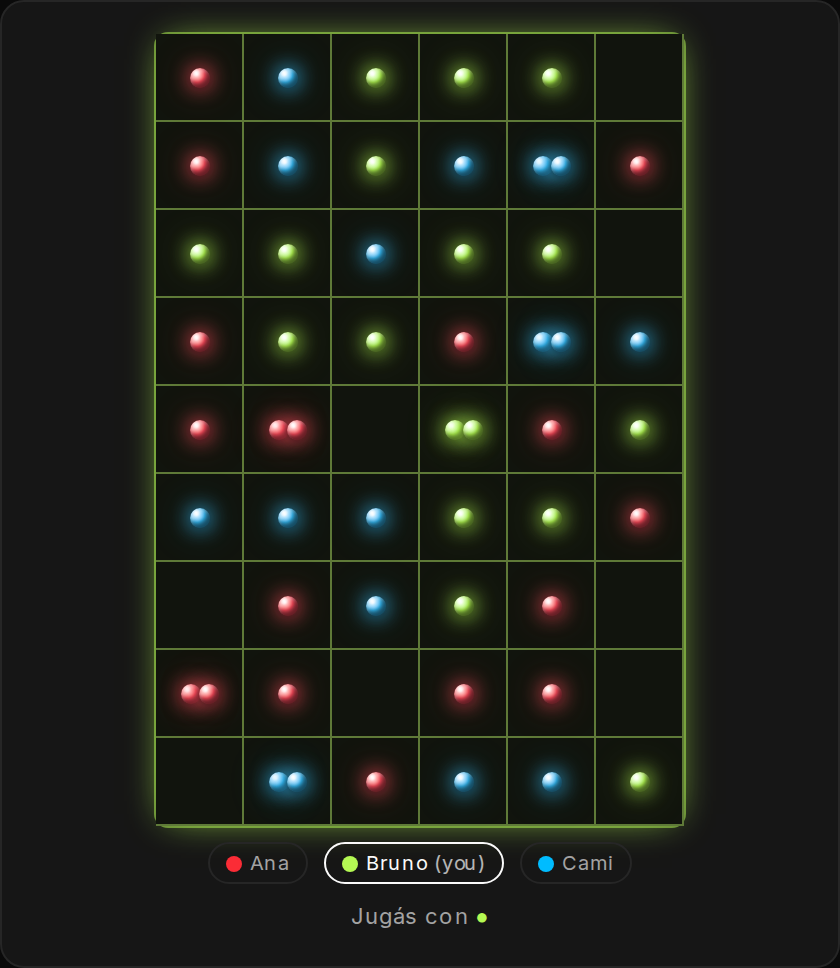
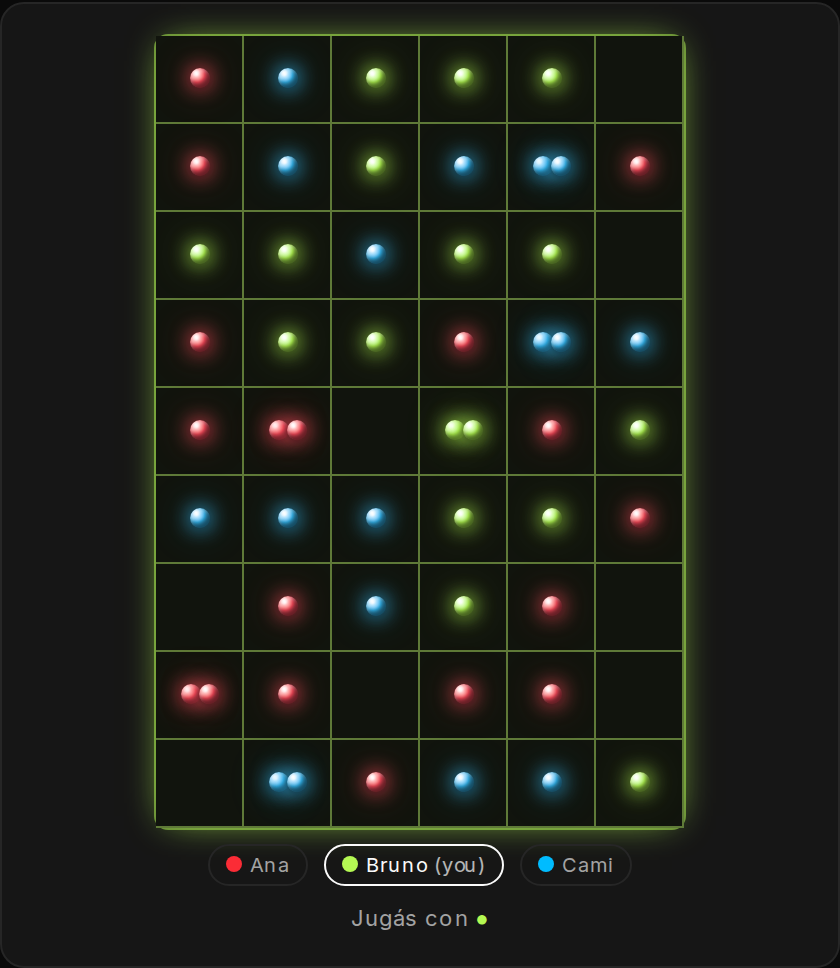
features: put the games on the features page and the landing grid
They shipped without ever appearing anywhere a visitor would find them —
/features listed seven things and games was not one of them.

The image is generated like the guide screenshots: a landscape frame in the
harness with all three boards side by side, captured by `npm run
snap-games`. So it is the real engines rendering real logs, and it updates
with them rather than aging into a screenshot of a game we no longer ship.

The landing grid gets a matching card, with copy in both locales.

Also makes the capture script stop using scrollIntoViewIfNeeded: the page
now holds several live canvases, and "wait for the element to stop moving"
is a race the harness loses about half the time. Element screenshots scroll
on their own.

Claude-Session: https://claude.ai/code/session_01NXQLGQdH5TNYhP56MRr4tR

diff --git a/src/app/features/page.tsx b/src/app/features/page.tsx
@@ -30,6 +30,13 @@ const FEATURES = [
     width: 2940, height: 1596,
   },
   {
+    title: 'Games in the channel',
+    description: 'Chain Reaction, Vesta and Stacker run inside a channel with no game server: every move is a signed Nostr event and every client replays the same log to the same board. Turn clocks, seats and results all come out of that log.',
+    image: '/og/guides/games/games-feature.png',
+    alt: 'Three Obelisk games running on a Nostr relay: a Chain Reaction board, a Vesta island, and a Stacker well',
+    width: 2360, height: 1004,
+  },
+  {
     title: 'Mobile PWA',
     description: 'Install Obelisk from the browser and use the complete responsive app: relays, channels, DMs, profiles, notifications, and calls.',
     image: '/pictures-for-posts/mobile-showcase-readme.png',
@@ -60,9 +67,9 @@ const FEATURES = [
 ] as const;
 
 export const metadata: Metadata = {
-  title: 'Features — Nostr group chat, video calls, stickers, and mobile PWA',
+  title: 'Features — Nostr group chat, video calls, games, stickers, and mobile PWA',
   description:
-    'Explore Obelisk features: NIP-29 groups, voice messages, sticker packs, mobile PWA, P2P video, large SFU calls, and portable Nostr profiles.',
+    'Explore Obelisk features: NIP-29 groups, voice messages, sticker packs, relay-native multiplayer games, mobile PWA, P2P video, large SFU calls, and portable Nostr profiles.',
   alternates: { canonical: '/features' },
   keywords: [
     'Nostr chat features',
@@ -71,12 +78,13 @@ export const metadata: Metadata = {
     'Nostr voice and video calls',
     'Nostr mobile PWA',
     'Nostr sticker marketplace',
+    'Nostr multiplayer games',
     'self-hosted community chat',
   ],
   openGraph: {
     title: 'Obelisk Features — relay-native group chat and calls',
     description:
-      'Relay-native groups, voice messages, sticker packs, mobile PWA, P2P video, large calls, and portable Nostr profiles.',
+      'Relay-native groups, voice messages, sticker packs, multiplayer games, mobile PWA, P2P video, large calls, and portable Nostr profiles.',
     url: SITE_URL + '/features',
     siteName: 'Obelisk',
     type: 'website',
@@ -91,7 +99,7 @@ export const metadata: Metadata = {
     card: 'summary_large_image',
     title: 'Obelisk Features — Nostr group chat, calls, stickers, and PWA',
     description:
-      'Explore relay-native groups, voice messages, stickers, mobile PWA, P2P video, SFU calls, and portable Nostr profiles.',
+      'Explore relay-native groups, voice messages, stickers, games, mobile PWA, P2P video, SFU calls, and portable Nostr profiles.',
     images: ['/pictures-for-posts/mobile-showcase-readme.png'],
   },
 };

diff --git a/src/app/features/page.test.tsx b/src/app/features/page.test.tsx
@@ -9,14 +9,17 @@ vi.mock('@/components/ShootingStars', () => ({ default: () => null }));
 describe('FeaturesPage', () => {
   it('shows every comeback feature with a screenshot and working calls to action', () => {
     render(<FeaturesPage />);
-    for (const title of ['Nostr relay-based groups', 'Voice messages', 'Sticker marketplace', 'Mobile PWA', 'Peer-to-peer video calls', 'Big calls with SFU', 'Nostr profile explorer']) {
+    for (const title of ['Nostr relay-based groups', 'Voice messages', 'Sticker marketplace', 'Games in the channel', 'Mobile PWA', 'Peer-to-peer video calls', 'Big calls with SFU', 'Nostr profile explorer']) {
       expect(screen.getByRole('heading', { name: title })).toBeInTheDocument();
     }
-    expect(screen.getAllByRole('img')).toHaveLength(7);
+    expect(screen.getAllByRole('img')).toHaveLength(8);
     expect(screen.getByRole('img', { name: 'Obelisk desktop sticker, emoji, and GIF marketplace' })).toHaveAttribute('src', expect.stringContaining('stickers-marketplace.png'));
     expect(screen.getAllByRole('img').filter((image) => image.getAttribute('src')?.includes('voice-messages.png'))).toHaveLength(2);
     expect(screen.getAllByRole('img').filter((image) => image.getAttribute('src')?.includes('desktop-large-voice-channel-with-sfu-peer-trasmission-test.png'))).toHaveLength(2);
     expect(screen.getByText(/Choose which SFU server to use or host your own/)).toBeInTheDocument();
+    // The games shot is generated by `npm run snap-games`, not hand-placed.
+    expect(screen.getByRole('img', { name: /Chain Reaction board, a Vesta island, and a Stacker well/ }))
+      .toHaveAttribute('src', expect.stringContaining('games-feature.png'));
     expect(screen.getAllByRole('link', { name: /open obelisk|launch the app/i })).toHaveLength(2);
     expect(screen.getByRole('link', { name: 'View source' })).toHaveAttribute('href', 'https://github.com/obelisk-app/obelisk');
   });

diff --git a/src/app/dev/game-shots/Harness.tsx b/src/app/dev/game-shots/Harness.tsx
@@ -4,6 +4,7 @@ import { useMemo, useState } from 'react';
 import type { GameState as VestaState } from 'vesta';
 import ChainReactionBoard from '@/components/chat/games/ChainReactionBoard';
 import VestaTable from '@/components/chat/games/vesta/VestaTable';
+import VestaBoard from '@/components/chat/games/vesta/VestaBoard';
 import StackerTable from '@/components/chat/games/stacker/StackerTable';
 import StackerBoard from '@/components/chat/games/stacker/StackerBoard';
 import type { StackerRunner } from '@/lib/games/stacker/runner';
@@ -76,6 +77,28 @@ export default function Harness() {
       >
         picker
       </button>
+
+      {/* The three games in one landscape frame, for the /features page. */}
+      <Frame name="games-feature" width={1180}>
+        <div className="flex items-center justify-center gap-7">
+          <ChainReactionBoard
+            game={cr}
+            mySeats={[cr.currentTurn ?? 'seat-ana']}
+            onAction={noop}
+            maxWidth={300}
+            maxHeight={420}
+            seatLabel={seatLabel}
+          />
+          {/* The Vesta board is a fixed-size canvas, so it is scaled and
+              scaled rather than re-rendered smaller. */}
+          <div style={{ width: 469, height: 363, overflow: 'hidden' }}>
+            <div style={{ transform: 'scale(0.625)', transformOrigin: 'top left' }}>
+              <VestaBoard state={vesta.state as VestaState} mode="none" />
+            </div>
+          </div>
+          <StackerBoard runner={still} cell={17} />
+        </div>
+      </Frame>
 
       <Frame name="chain-reaction-board" width={420}>
         <ChainReactionBoard

diff --git a/src/components/LandingPage.tsx b/src/components/LandingPage.tsx
@@ -95,6 +95,21 @@ const FEATURE_KEYS = [
     titleKey: 'features.zaps.title',
     descKey: 'features.zaps.desc',
   },
+  {
+    icon: (
+      // A die: the games are the one feature here you can lose at.
+      <svg width="28" height="28" viewBox="0 0 24 24" fill="none" stroke="currentColor" strokeWidth="1.5" strokeLinecap="round" strokeLinejoin="round">
+        <rect x="3" y="3" width="18" height="18" rx="4" />
+        <circle cx="8.5" cy="8.5" r="1.1" fill="currentColor" stroke="none" />
+        <circle cx="15.5" cy="8.5" r="1.1" fill="currentColor" stroke="none" />
+        <circle cx="12" cy="12" r="1.1" fill="currentColor" stroke="none" />
+        <circle cx="8.5" cy="15.5" r="1.1" fill="currentColor" stroke="none" />
+        <circle cx="15.5" cy="15.5" r="1.1" fill="currentColor" stroke="none" />
+      </svg>
+    ),
+    titleKey: 'features.games.title',
+    descKey: 'features.games.desc',
+  },
 ];
 
 const STEP_ICONS = [

diff --git a/src/components/LandingPage.test.tsx b/src/components/LandingPage.test.tsx
@@ -149,6 +149,12 @@ describe('LandingPage hero', () => {
     expect(iframe?.src).toContain('youtube-nocookie.com/embed/Z86oghQkUbk');
   });
 
+  it('lists the games among the features, in both locales', () => {
+    render(<LocaleProvider><LandingPage /></LocaleProvider>);
+    expect(screen.getByRole('heading', { name: 'Games on the relay' })).toBeInTheDocument();
+    expect(screen.getByText(/Chain Reaction, Vesta and Stacker/)).toBeInTheDocument();
+  });
+
   it('allows the Spanish hero headline to wrap on narrow screens', () => {
     render(
       <LocaleProvider initialLocale="es">
